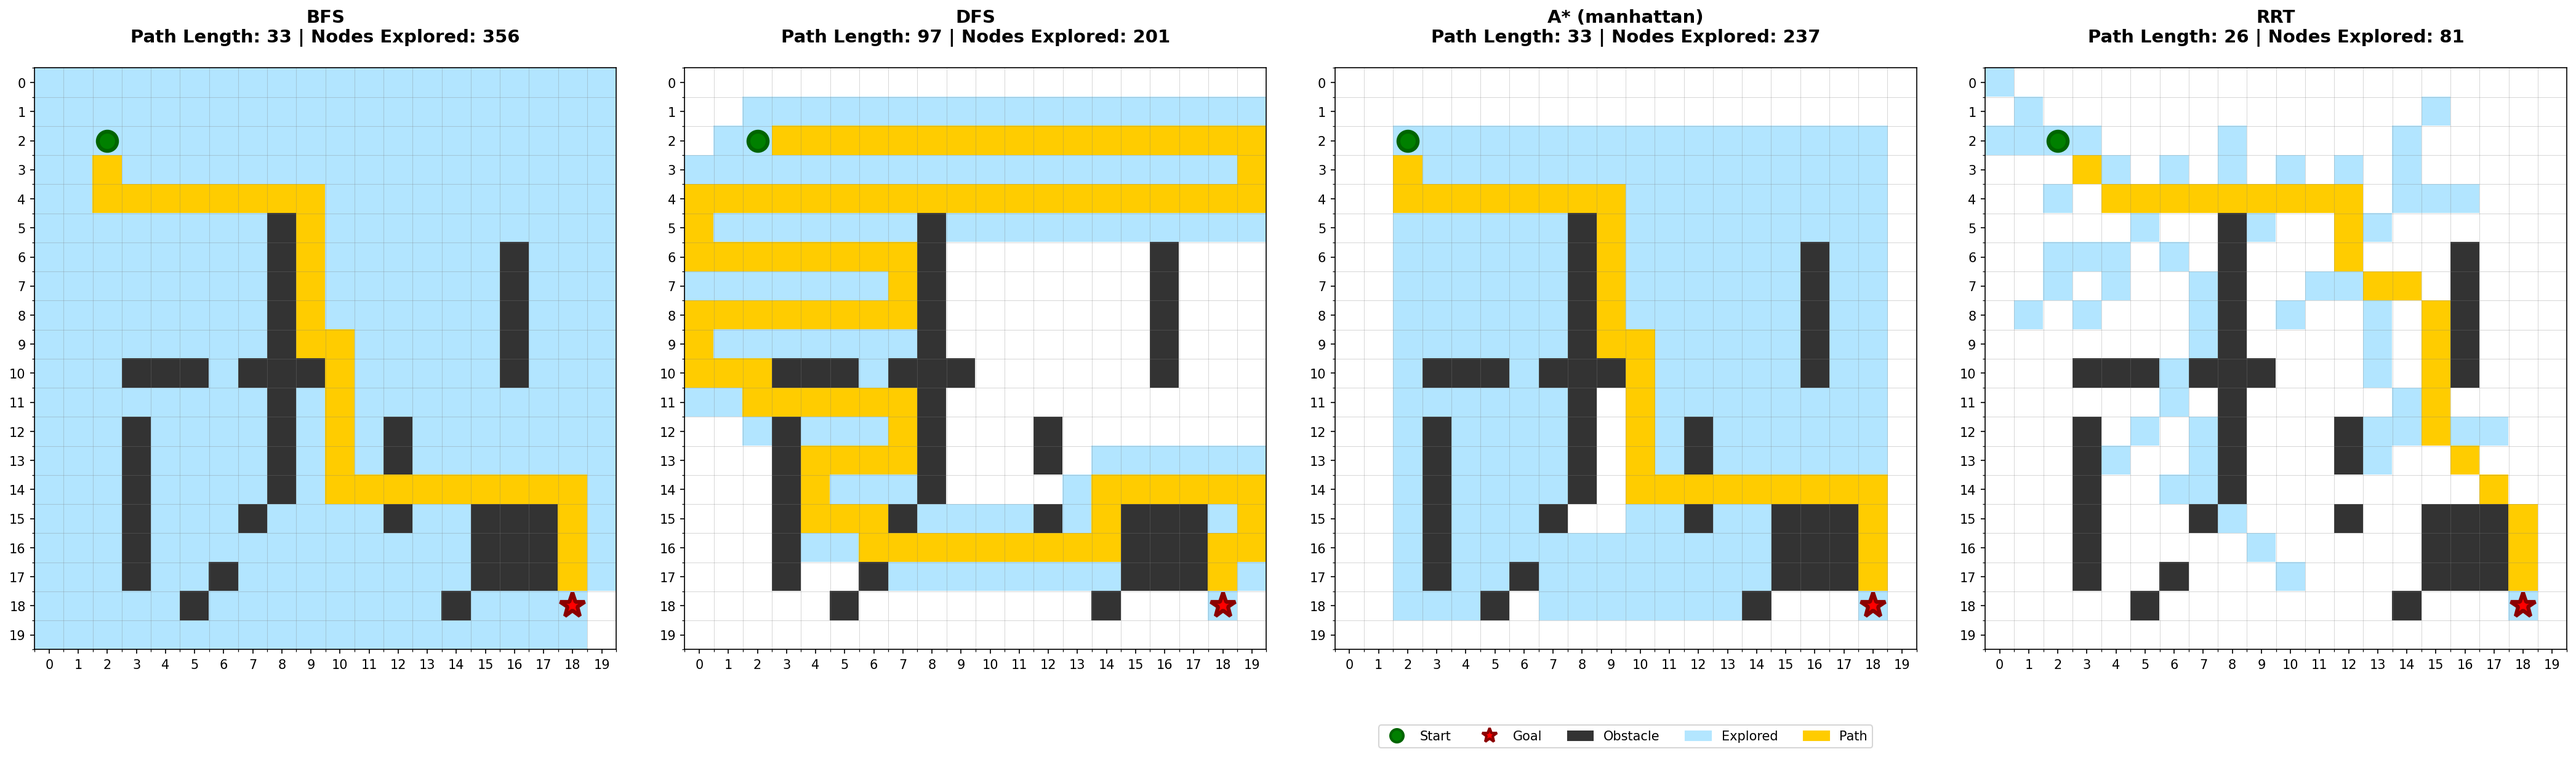
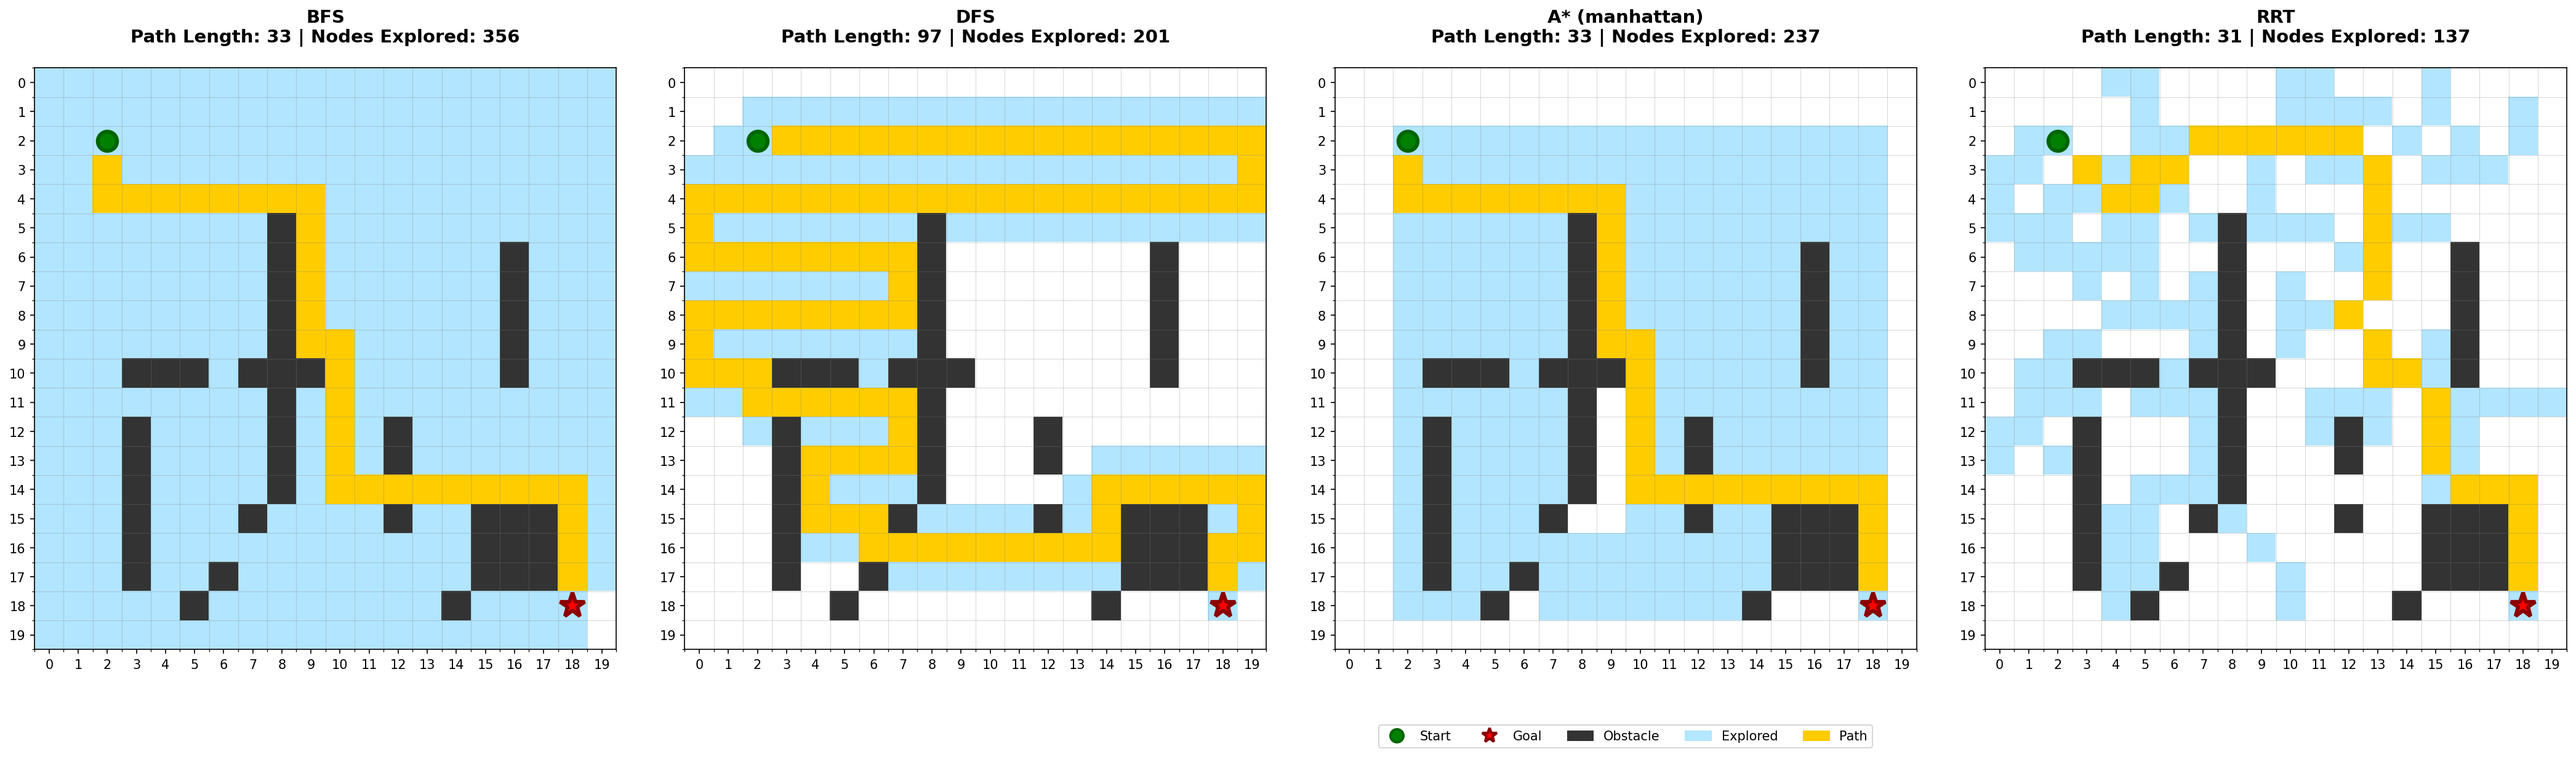
improve README with real benchmarks and design notes (#9)

Changed region(s): [[0.7455, 0.0927, 1.0, 0.8341], [0.8076, 0.0309, 0.963, 0.0618], [0.8698, 0.7724, 0.9008, 0.8341]]

diff --git a/README.md b/README.md
@@ -63,15 +63,21 @@ pytest tests/
 
 ## Algorithm Comparison
 
-> Benchmark table coming soon — running controlled trials across identical scenarios.
+Benchmarked on a 20×20 grid with a wall barrier (gap at one end). Same start/goal for all algorithms.
 
 | Algorithm  | Path Length | Nodes Explored | Time (ms) | Use Case |
 |------------|-------------|----------------|-----------|----------|
-| BFS        | —           | —              | —         | Shortest path, unweighted grid |
-| DFS        | —           | —              | —         | Memory-efficient, non-optimal |
-| A\*        | —           | —              | —         | Optimal, heuristic-guided |
-| RRT        | —           | —              | —         | High-dimensional / continuous spaces |
-| Q-Learning | —           | —              | —         | Unknown environment, learns online |
+| BFS        | 33          | 356            | 3.6       | Shortest path guarantee, unweighted grid |
+| DFS        | 97          | 201            | 2.2       | Memory-efficient, non-optimal |
+| A\*        | 33          | 237            | 6.2       | Optimal + heuristic-guided (fewer expansions than BFS) |
+| RRT ¹      | 31          | 137            | 20.1      | Continuous/high-dimensional spaces — see note ² |
+| Q-Learning | n/a ³       | n/a ³          | n/a ³     | Unknown environment, learns policy online |
+
+¹ RRT path length can be shorter than BFS because it allows diagonal moves (8-connected steering), whereas BFS is 4-connected.
+² RRT is included for algorithm comparison. In the warehouse pipeline, **A\* is used as global planner** — it guarantees an optimal path on a known discrete grid and is fully deterministic. RRT's strength (sampling continuous spaces without an explicit graph) is unnecessary when the map is already a 2D occupancy grid.
+³ Q-Learning does not expand nodes — it trains a value table over episodes. Path quality depends on training time and environment complexity. See design note below.
+
+> **Note on Q-Learning:** Q-Learning operates on the discrete grid (4-connected moves, full map visibility) and functions as a standalone global planner — it does **not** feed into the DWA/LiDAR/robot pipeline. This is intentional: classical planners (A\*, BFS) guarantee optimal paths in known static environments; Q-Learning's strength is learning a policy in an *unknown* environment through trial and error. Integrating Q-Learning with continuous kinematics would require Deep Q-Networks (DQN) or a policy gradient method — a natural next step for this project.
 
 ---
 
@@ -131,18 +137,39 @@ A multi-source BFS (`_compute_clearance_map`) seeds all obstacle cells at distan
 
 ---
 
+### 4. Lookahead targeting instead of nearest-waypoint chasing
+
+**Problem:** DWA chasing the *nearest* A\* waypoint causes the robot to slow at every grid cell and clip inside corners — the robot nearly collides with the inner wall of every turn.
+
+**Decision:** Advance to the *furthest* waypoint within a lookahead radius R (Pure Pursuit style). The robot starts curving earlier, producing wider arcs that naturally clear corners.
+
+**Why it works:** Same principle used in autonomous car path tracking. A larger lookahead produces smoother but less precise tracking; a smaller lookahead is more precise but re-introduces corner clipping. R ≈ 2 cells was found to be the sweet spot for 0.5 m cells.
+
+---
+
+### 5. Step-wise ray marching for LiDAR instead of Bresenham DDA
+
+**Problem:** LiDAR simulation requires finding the first obstacle cell along each beam. Bresenham's line algorithm is exact, but its cell-visitation order depends on slope discontinuities — complex to implement correctly and hard to debug.
+
+**Decision:** Step-wise marching: advance along the ray by a fixed `step_size` (default 0.05 m), convert each point to grid coordinates, stop at the first obstacle or grid boundary.
+
+**Why it works:** At step_size = 0.05 m with 5 m max range → 100 steps per beam. Computation is negligible. The approach is physically intuitive (matches how a real laser pulse propagates), easy to test, and naturally handles any FOV or beam count without special-casing slope edge cases.
+
+---
+
 ## Test Coverage
 
 ```
-tests/test_environment.py   26 tests
-tests/test_planning.py      28 tests
-tests/test_rrt.py           25 tests
-tests/test_qlearning.py     31 tests
-tests/test_robot.py         41 tests
-tests/test_lidar.py         25 tests
-tests/test_dwa.py           41 tests
-─────────────────────────────────────
-Total                      217 tests  ✓ all pass
+tests/test_environment.py          31 tests
+tests/test_planning.py             33 tests
+tests/test_rrt.py                  26 tests
+tests/test_qlearning.py            32 tests
+tests/test_robot.py                41 tests
+tests/test_lidar.py                25 tests
+tests/test_dwa.py                  41 tests
+tests/test_warehouse_simulation.py 30 tests
+──────────────────────────────────────────
+Total                             259 tests  ✓ all pass
 ```
 
 ---
